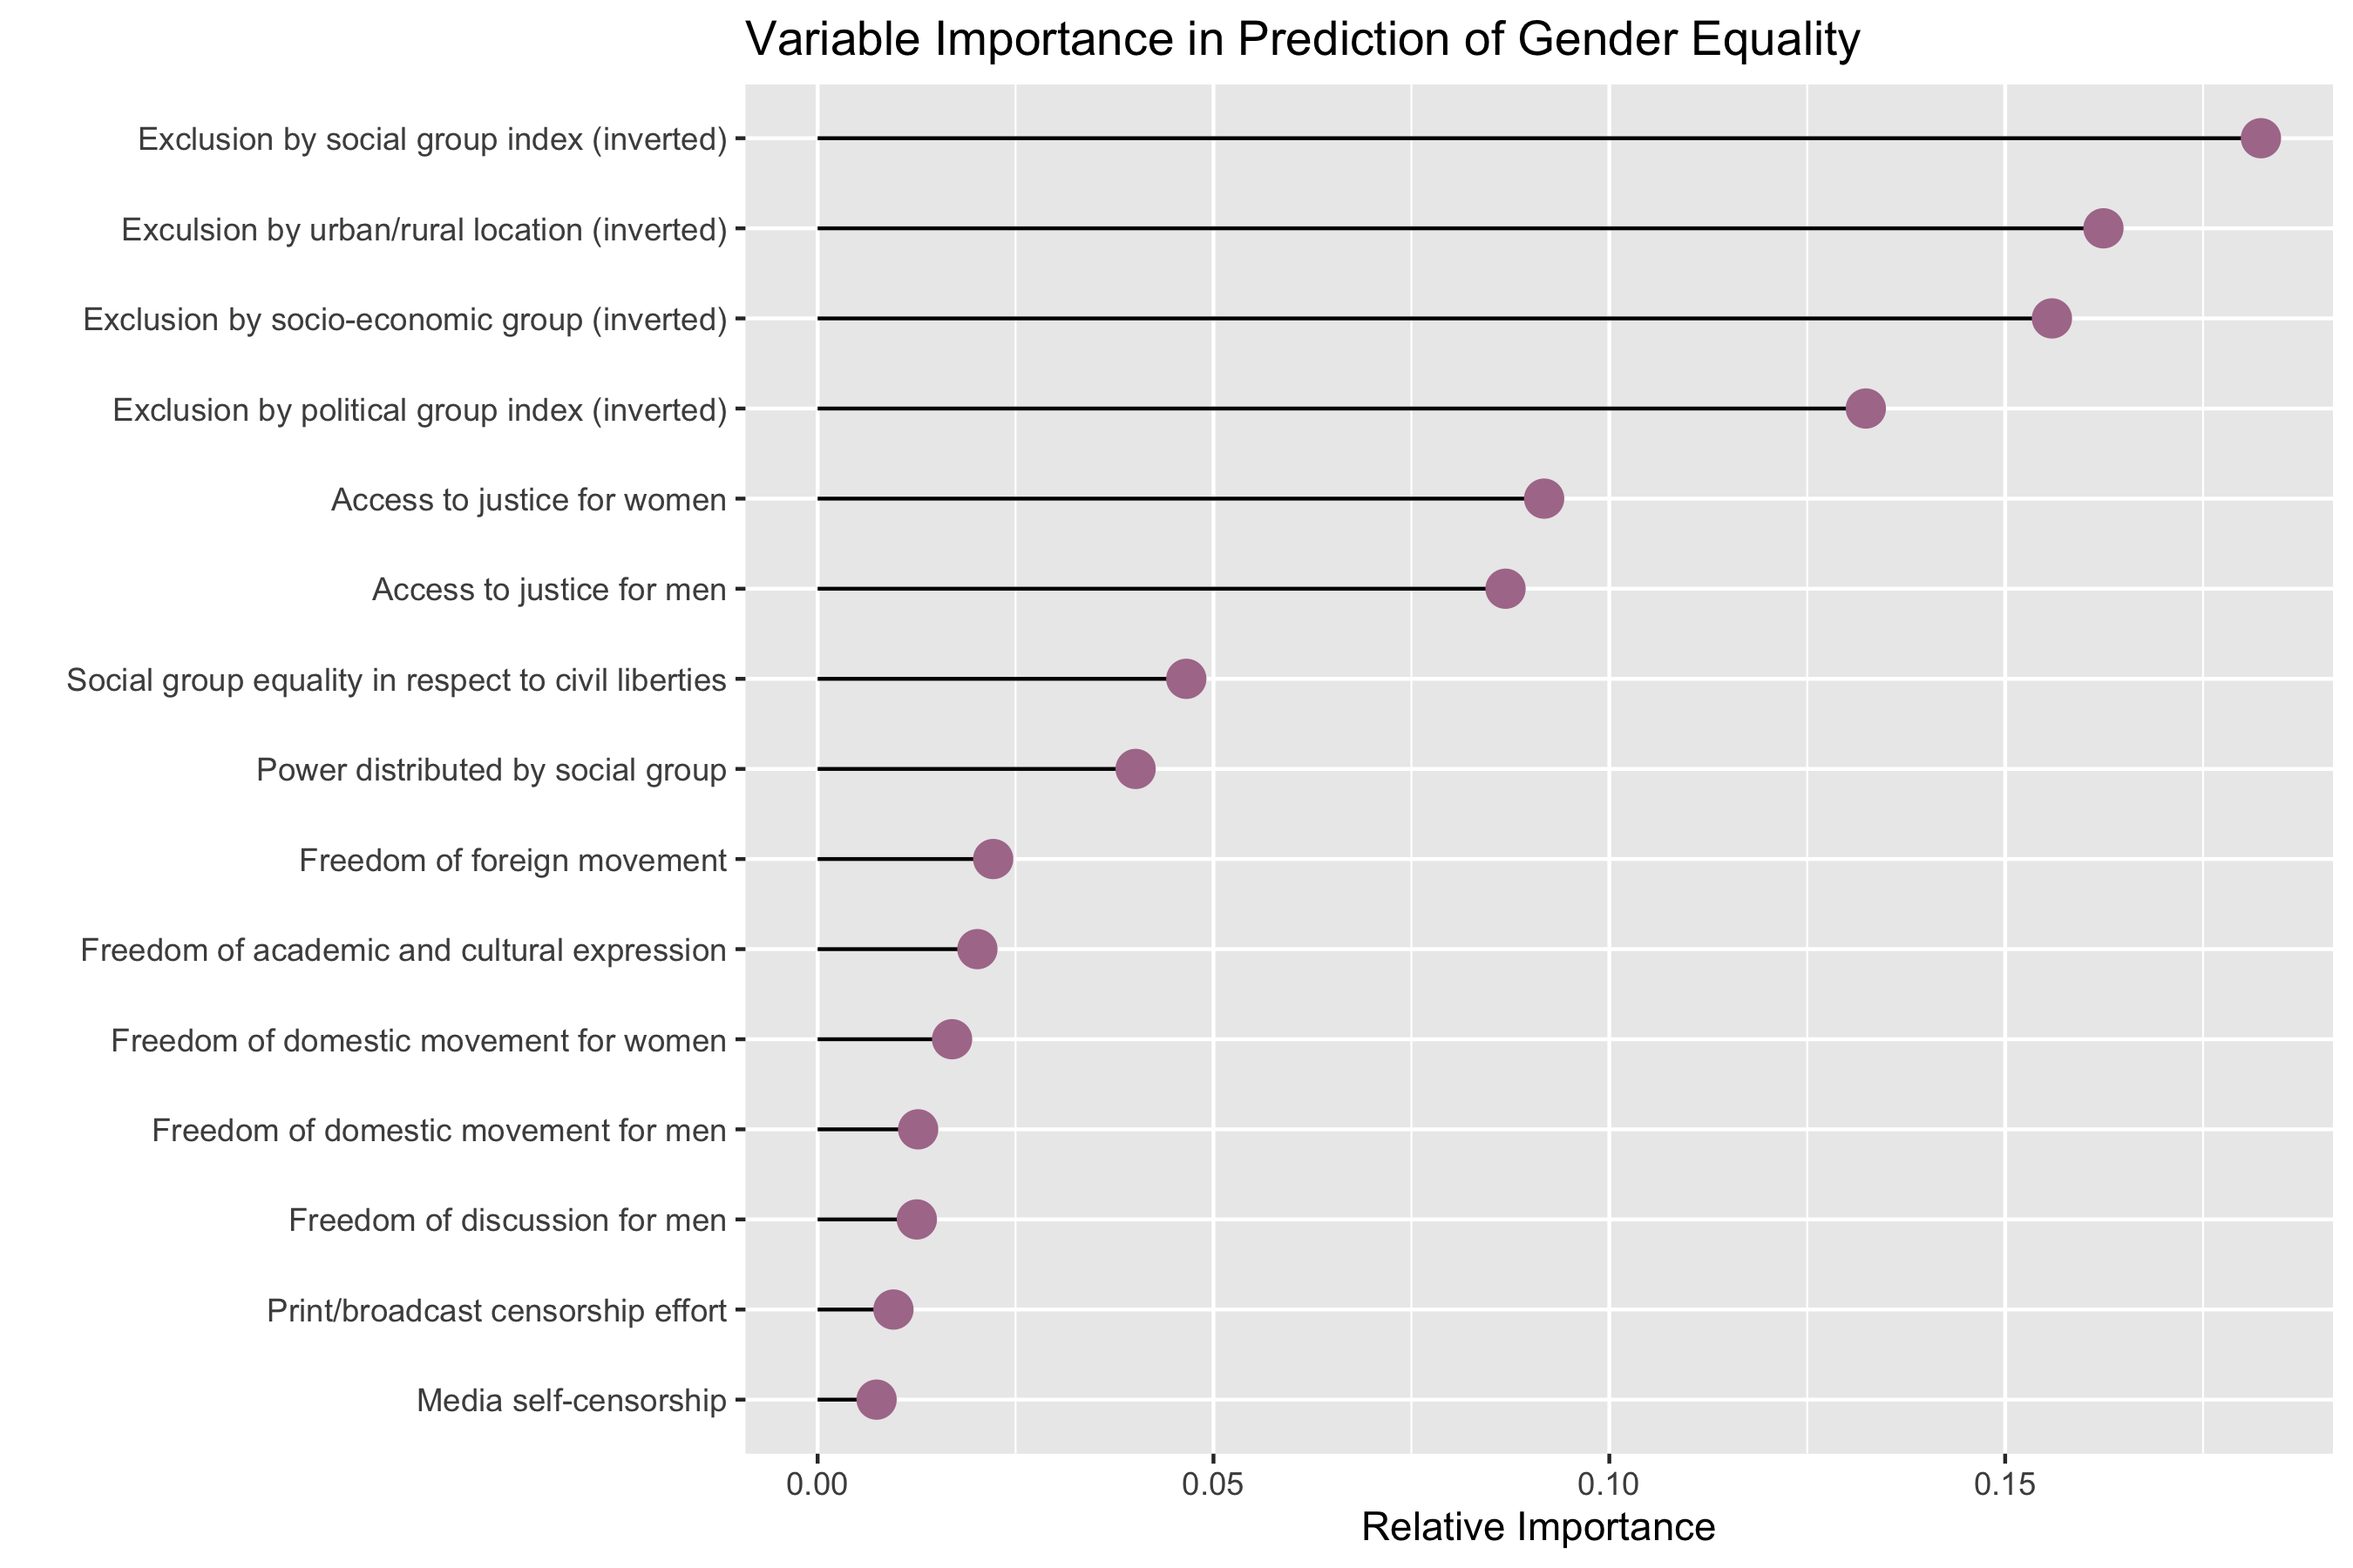
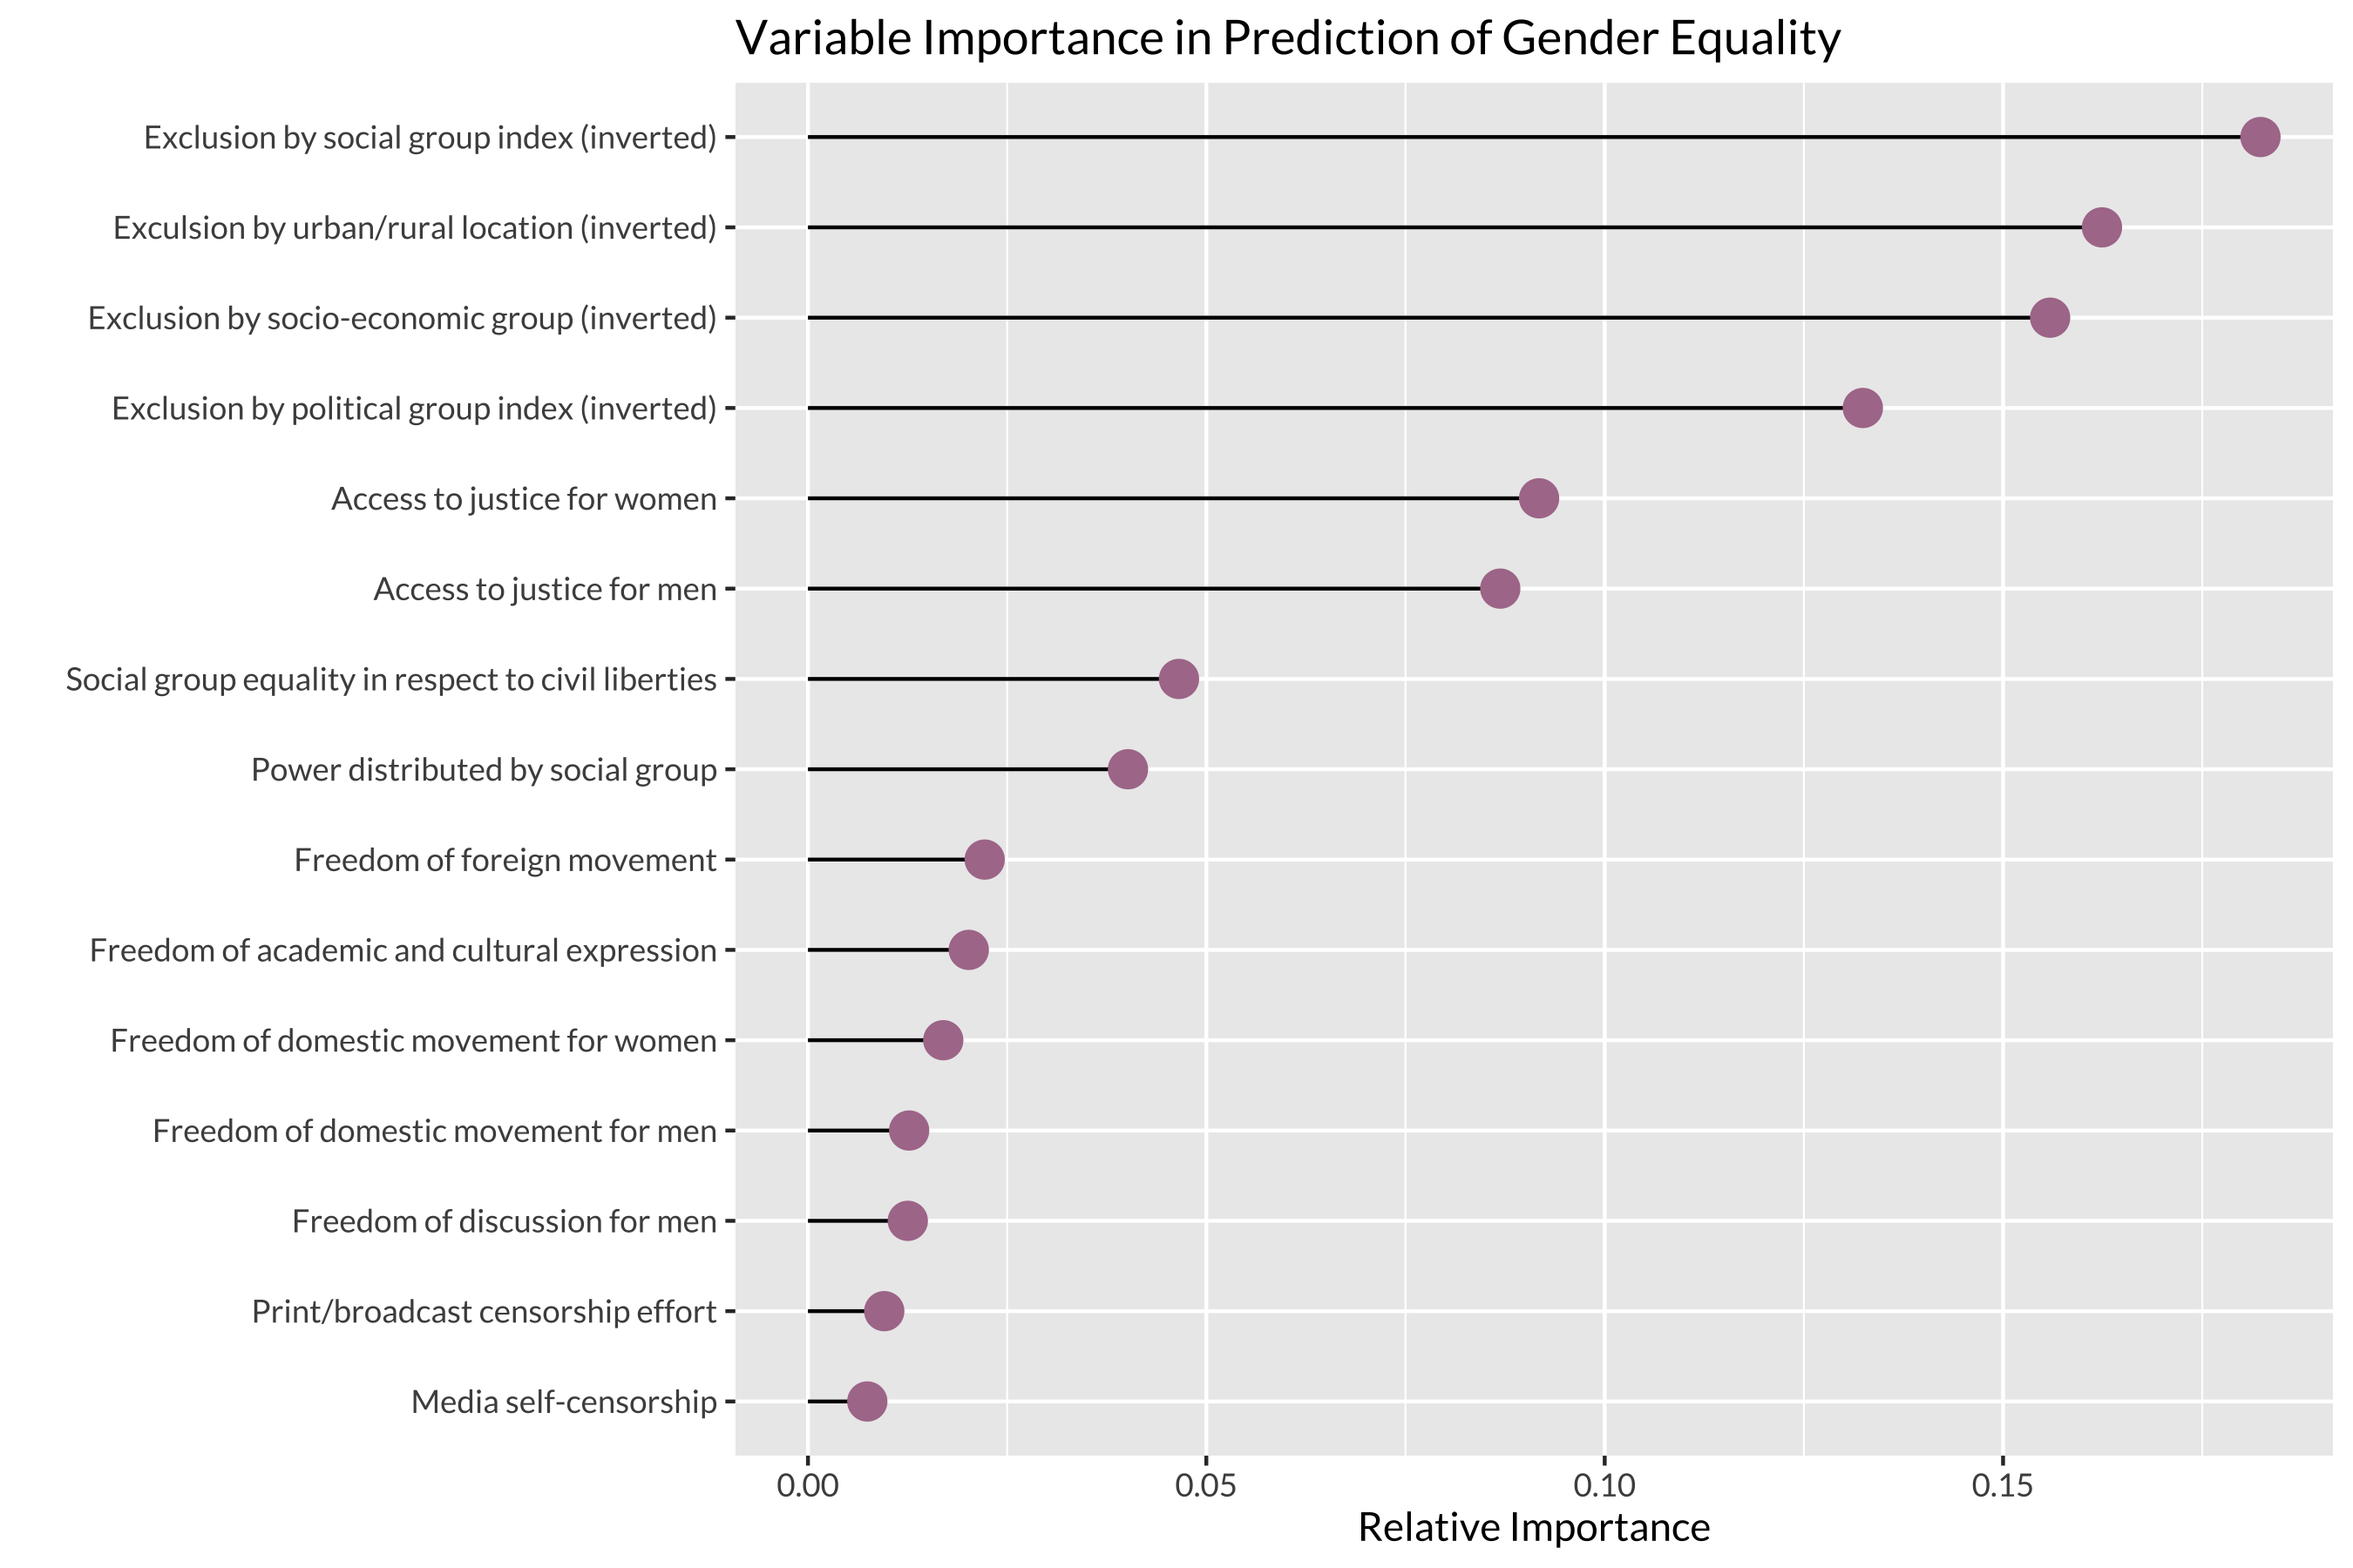
Matched font on genderEquality graph to website font

diff --git a/styles.css b/styles.css
@@ -2,10 +2,8 @@
   --darkest: #454545;
   --medium-gray: #5C5C5C;
   --light-gray: #F3F5F7;
-  --yellow: #FFBC42;
+  --yellow: #FFC857;
   --purple: #AD7A99;
-  --light-yellow: #FFE2AD;
-  --light-purple: #E8D9E2;
 }
 
 body{
@@ -93,12 +91,6 @@ ul{
 .p-content{
   padding-left: 205px;
 }
-
-.shaded-yellow{
-  background-color: var(--light-yellow);
-  padding: 3px 30px 10px 30px;
-  margin-left: -40px;
-  margin-right: -40px;}
 
 .shaded-gray{
   background-color: var(--light-gray);
